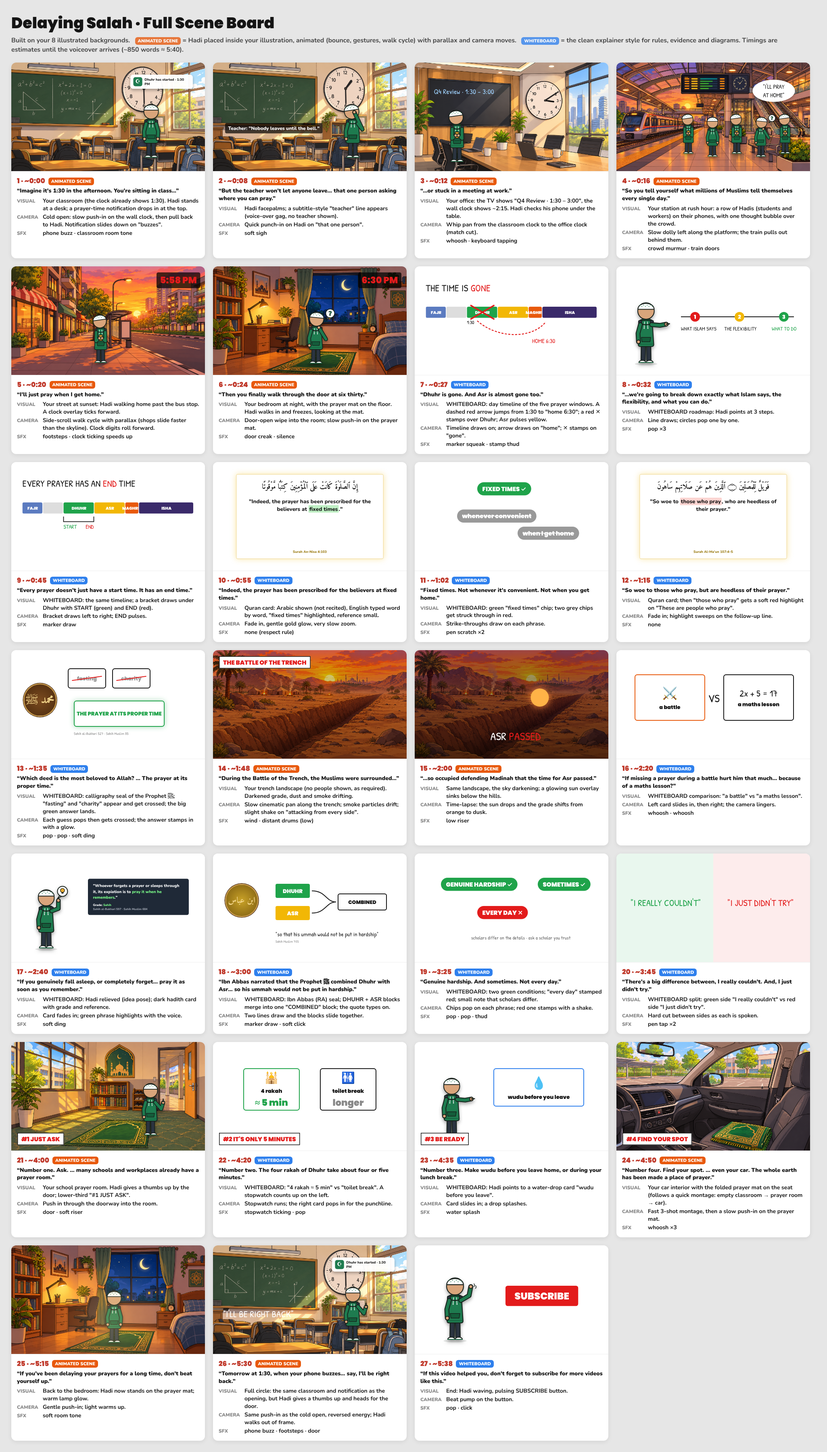
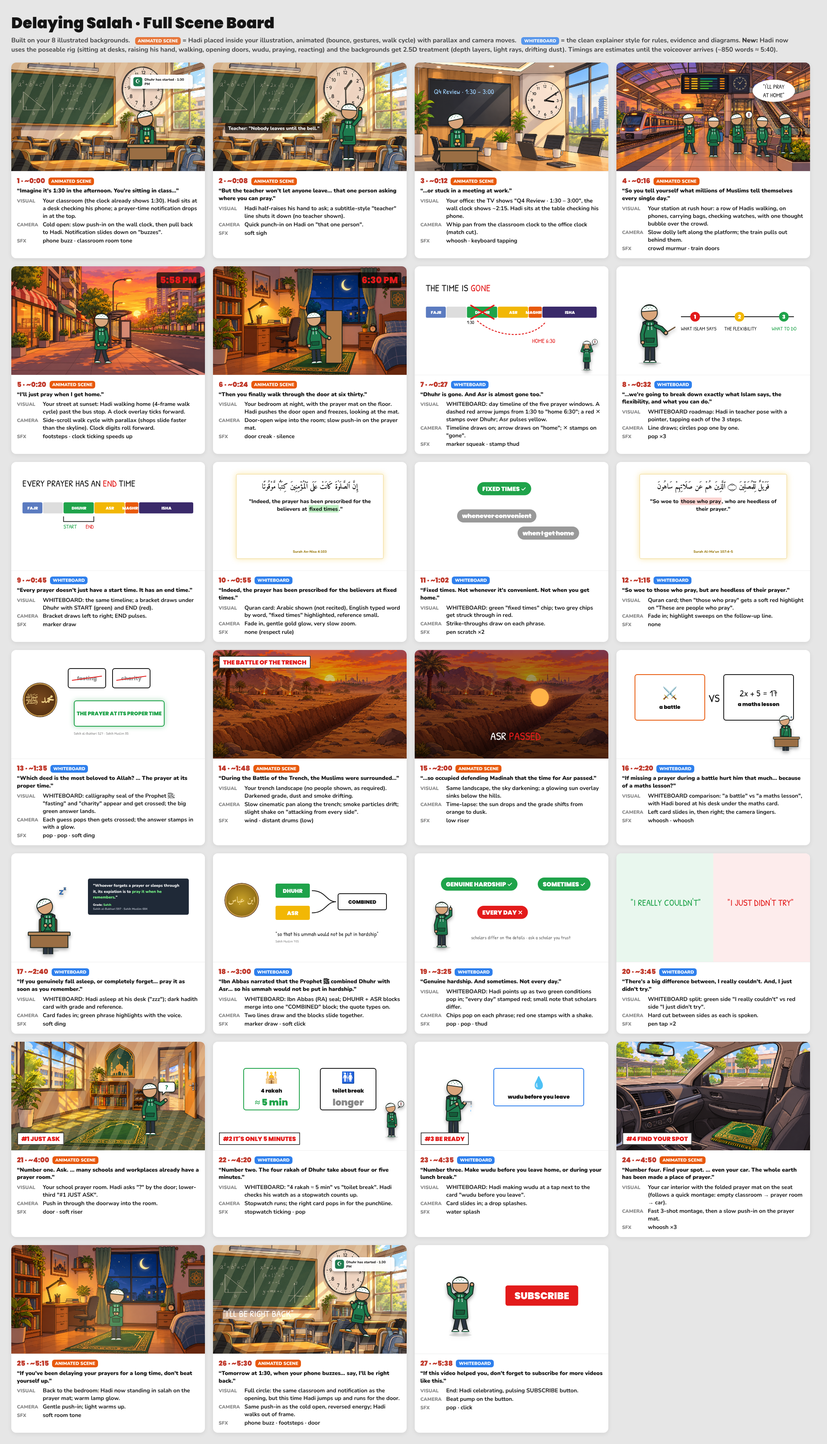
Salah board: rig poses, light effects, updated notes

diff --git a/storyboards/04-salah-full/index.html b/storyboards/04-salah-full/index.html
@@ -27,11 +27,14 @@ h1{font:900 38px Poppins;margin-bottom:4px}
 .box{position:absolute;border:8px solid #151515;border-radius:26px;background:#fff;display:flex;flex-direction:column;align-items:center;justify-content:center;gap:10px;font:900 52px Poppins;text-align:center}
 </style></head><body>
 <h1>Delaying Salah · Full Scene Board</h1>
-<div class="sub">Built on your 8 illustrated backgrounds. <span class="tag an">ANIMATED SCENE</span> = Hadi placed inside your illustration, animated (bounce, gestures, walk cycle) with parallax and camera moves. <span class="tag wb">WHITEBOARD</span> = the clean explainer style for rules, evidence and diagrams. Timings are estimates until the voiceover arrives (~850 words ≈ 5:40).</div>
+<div class="sub">Built on your 8 illustrated backgrounds. <span class="tag an">ANIMATED SCENE</span> = Hadi placed inside your illustration, animated (bounce, gestures, walk cycle) with parallax and camera moves. <span class="tag wb">WHITEBOARD</span> = the clean explainer style for rules, evidence and diagrams. <b>New:</b> Hadi now uses the poseable rig (sitting at desks, raising his hand, walking, opening doors, wudu, praying, reacting) and the backgrounds get 2.5D treatment (depth layers, light rays, drifting dust). Timings are estimates until the voiceover arrives (~850 words ≈ 5:40).</div>
 <div class="grid" id="grid"></div>
 <script>
 const bg=f=>`<img class="a" src="bg-${f}.png" style="left:0;top:0;width:1920px;height:1080px;object-fit:cover">`;
-const hadi=(p,x,y,h=640,extra='')=>`<img class="a" src="hadi-${p}.svg" style="left:${x}px;top:${y}px;height:${h}px;filter:drop-shadow(0 18px 18px rgba(0,0,0,.35));${extra}">`;
+const RIG=new Set(['walk1','walk2','walk3','walk4','run','walk-phone','check-watch','raise-hand','ask','sit-desk','sit-bored','sit-phone','sit-floor','pray-stand','pray-hands-up','dua','read-book','carry-bag','wudu','sleep','shrug','panic','sad','explain','point-up','stop','open-door','celebrate']);
+const rays=()=>`<div class="a" style="left:0;top:0;width:1920px;height:1080px;background:repeating-linear-gradient(115deg,rgba(255,236,170,.0) 0 90px,rgba(255,236,170,.16) 90px 150px);mix-blend-mode:screen"></div>`;
+const dust=()=>`<svg class="a" style="left:0;top:0" width="1920" height="1080">${[...Array(40)].map((_,i)=>`<circle cx="${(i*173)%1920}" cy="${(i*97)%1080}" r="${2+(i%4)}" fill="#FFE2B0" opacity=".5"/>`).join('')}</svg>`;
+const hadi=(p,x,y,h=640,extra='')=>`<img class="a" src="${RIG.has(p)?'':'hadi-'}${p}.svg" style="left:${x}px;top:${y}px;height:${h}px;filter:drop-shadow(0 18px 18px rgba(0,0,0,.35));${extra}">`;
 const words=(txt,x,y,size,upto,keys=[],w=1700,align='left',color='#151515')=>{const ws=txt.split(' ');upto=upto??ws.length;return `<div class="hand" style="left:${x}px;top:${y}px;font-size:${size}px;width:${w}px;white-space:normal;line-height:1.3;text-align:${align}">`+ws.map((t,i)=>`<span style="color:${i<upto?(keys.some(k=>t.toLowerCase().includes(k))?'#E31B1B':color):(i==upto?'#bbb':'transparent')}">${t}</span>`).join(' ')+'</div>';};
 const notif=(x,y,txt)=>`<div class="a" style="left:${x}px;top:${y}px;width:620px;background:rgba(255,255,255,.96);border-radius:28px;padding:24px 30px;box-shadow:0 14px 30px rgba(0,0,0,.3);display:flex;gap:22px;align-items:center"><div style="width:90px;height:90px;border-radius:20px;background:#1E7B4F;color:#fff;font:900 54px Amiri;display:flex;align-items:center;justify-content:center">☪</div><div style="font:800 34px Nunito">${txt}</div></div>`;
 const bubble=(x,y,w,h,txt,size=56)=>`<div class="a" style="left:${x}px;top:${y}px;width:${w}px;height:${h}px;border-radius:50%;background:#fff;box-shadow:0 10px 24px rgba(0,0,0,.25);display:flex;align-items:center;justify-content:center;text-align:center;font:400 ${size}px 'Patrick Hand';text-transform:uppercase">${txt}</div>`;
@@ -42,22 +45,22 @@ const timeline=(mode)=>{const segs=[['FAJR',0,12,'#5B7BC0'],['',12,24,'#ddd'],['
  if(mode=='late') s+=`<text x="${24*17}" y="230" font-family="Patrick Hand" font-size="48">1:30</text><path d="M${30*17},200 C${42*17},380 ${62*17},380 ${70*17},210" fill="none" stroke="#E31B1B" stroke-width="9" stroke-dasharray="20 14"/><text x="${62*17}" y="420" font-family="Patrick Hand" font-size="60" fill="#E31B1B">HOME 6:30</text><line x1="${26*17}" y1="45" x2="${40*17}" y2="185" stroke="#E31B1B" stroke-width="14"/><line x1="${40*17}" y1="45" x2="${26*17}" y2="185" stroke="#E31B1B" stroke-width="14"/>`;
  return s+'</svg>';};
 const F=[
- ['an','0:00',"Imagine it's 1:30 in the afternoon. You're sitting in class…",bg('classroom')+hadi('neutral',1180,360,620)+notif(1180,120,'Dhuhr has started · 1:30 PM'),
-  'Your classroom (the clock already shows 1:30). Hadi stands at a desk; a prayer-time notification drops in at the top.','Cold open: slow push-in on the wall clock, then pull back to Hadi. Notification slides down on "buzzes".','phone buzz · classroom room tone'],
- ['an','0:08',"But the teacher won't let anyone leave… that one person asking where you can pray.",bg('classroom')+hadi('facepalm',1180,360,620)+`<div class="a" style="left:120px;top:600px;background:rgba(0,0,0,.7);color:#fff;font:800 48px Nunito;padding:18px 30px;border-radius:16px">Teacher: "Nobody leaves until the bell."</div>`,
-  'Hadi facepalms; a subtitle-style "teacher" line appears (voice-over gag, no teacher shown).','Quick punch-in on Hadi on "that one person".','soft sigh'],
- ['an','0:12',"…or stuck in a meeting at work.",bg('office')+hadi('phone',220,420,600)+`<div class="hand" style="left:190px;top:240px;font-size:70px;color:#9fd3ff;text-transform:none">Q4 Review · 1:30 – 3:00</div>`,
-  'Your office: the TV shows "Q4 Review · 1:30 – 3:00", the wall clock shows ~2:15. Hadi checks his phone under the table.','Whip pan from the classroom clock to the office clock (match cut).','whoosh · keyboard tapping'],
- ['an','0:16',"So you tell yourself what millions of Muslims tell themselves every single day.",bg('station')+[0,1,2,3,4].map(i=>hadi(['phone','neutral','phone','think','phone'][i],560+i*240,470+(i%2)*30,460)).join('')+bubble(1350,170,420,220,'"I\'ll pray<br>at home"',60),
-  'Your station at rush hour: a row of Hadis (students and workers) on their phones, with one thought bubble over the crowd.','Slow dolly left along the platform; the train pulls out behind them.','crowd murmur · train doors'],
- ['an','0:20',"I'll just pray when I get home.",bg('street')+hadi('phone',700,430,560)+clockBig(1440,60,90,'5:58 PM'),
-  'Your street at sunset: Hadi walking home past the bus stop. A clock overlay ticks forward.','Side-scroll walk cycle with parallax (shops slide faster than the skyline). Clock digits roll forward.','footsteps · clock ticking speeds up'],
- ['an','0:24',"Then you finally walk through the door at six thirty.",bg('bedroom')+hadi('think',820,400,600)+clockBig(1440,60,90,'6:30 PM'),
-  'Your bedroom at night, with the prayer mat on the floor. Hadi walks in and freezes, looking at the mat.','Door-open wipe into the room; slow push-in on the prayer mat.','door creak · silence'],
- ['wb','0:27',"Dhuhr is gone. And Asr is almost gone too.",timeline('late')+words('the time is gone',110,150,96,null,['gone']),
+ ['an','0:00',"Imagine it's 1:30 in the afternoon. You're sitting in class…",bg('classroom')+rays()+hadi('sit-phone',1060,330,700)+notif(1180,120,'Dhuhr has started · 1:30 PM'),
+  'Your classroom (the clock already shows 1:30). Hadi sits at a desk checking his phone; a prayer-time notification drops in at the top.','Cold open: slow push-in on the wall clock, then pull back to Hadi. Notification slides down on "buzzes".','phone buzz · classroom room tone'],
+ ['an','0:08',"But the teacher won't let anyone leave… that one person asking where you can pray.",bg('classroom')+rays()+hadi('raise-hand',1060,330,700)+`<div class="a" style="left:120px;top:600px;background:rgba(0,0,0,.7);color:#fff;font:800 48px Nunito;padding:18px 30px;border-radius:16px">Teacher: "Nobody leaves until the bell."</div>`,
+  'Hadi half-raises his hand to ask; a subtitle-style "teacher" line shuts it down (no teacher shown).','Quick punch-in on Hadi on "that one person".','soft sigh'],
+ ['an','0:12',"…or stuck in a meeting at work.",bg('office')+hadi('sit-phone',140,360,700)+`<div class="hand" style="left:190px;top:240px;font-size:70px;color:#9fd3ff;text-transform:none">Q4 Review · 1:30 – 3:00</div>`,
+  'Your office: the TV shows "Q4 Review · 1:30 – 3:00", the wall clock shows ~2:15. Hadi sits at the table checking his phone.','Whip pan from the classroom clock to the office clock (match cut).','whoosh · keyboard tapping'],
+ ['an','0:16',"So you tell yourself what millions of Muslims tell themselves every single day.",bg('station')+[0,1,2,3,4].map(i=>hadi(['walk-phone','carry-bag','check-watch','walk1','walk-phone'][i],520+i*240,450+(i%2)*30,500)).join('')+bubble(1350,170,420,220,'"I\'ll pray<br>at home"',60),
+  'Your station at rush hour: a row of Hadis walking, on phones, carrying bags, checking watches, with one thought bubble over the crowd.','Slow dolly left along the platform; the train pulls out behind them.','crowd murmur · train doors'],
+ ['an','0:20',"I'll just pray when I get home.",bg('street')+hadi('walk1',640,400,620)+clockBig(1440,60,90,'5:58 PM'),
+  'Your street at sunset: Hadi walking home (4-frame walk cycle) past the bus stop. A clock overlay ticks forward.','Side-scroll walk cycle with parallax (shops slide faster than the skyline). Clock digits roll forward.','footsteps · clock ticking speeds up'],
+ ['an','0:24',"Then you finally walk through the door at six thirty.",bg('bedroom')+hadi('open-door',760,380,640)+clockBig(1440,60,90,'6:30 PM'),
+  'Your bedroom at night, with the prayer mat on the floor. Hadi pushes the door open and freezes, looking at the mat.','Door-open wipe into the room; slow push-in on the prayer mat.','door creak · silence'],
+ ['wb','0:27',"Dhuhr is gone. And Asr is almost gone too.",timeline('late')+words('the time is gone',110,150,96,null,['gone'])+hadi('panic',1560,700,360),
   'WHITEBOARD: day timeline of the five prayer windows. A dashed red arrow jumps from 1:30 to "home 6:30"; a red ✕ stamps over Dhuhr; Asr pulses yellow.','Timeline draws on; arrow draws on "home"; ✕ stamps on "gone".','marker squeak · stamp thud'],
- ['wb','0:32',"…we're going to break down exactly what Islam says, the flexibility, and what you can do.",hadi('point',60,300,700)+`<svg class="a" style="left:0;top:0" width="1920" height="1080"><line x1="640" y1="500" x2="1760" y2="500" stroke="#151515" stroke-width="8"/>${[0,1,2].map(i=>`<circle cx="${780+i*440}" cy="500" r="48" fill="${['#E31B1B','#F2B705','#1FA34A'][i]}"/><text x="${780+i*440}" y="520" text-anchor="middle" font-family="Poppins" font-weight="900" font-size="54" fill="#fff">${i+1}</text>`).join('')}</svg><div class="hand" style="left:640px;top:580px;font-size:52px">what islam says</div><div class="hand" style="left:1070px;top:580px;font-size:52px">the flexibility</div><div class="hand" style="left:1540px;top:580px;font-size:52px;color:#1FA34A">what to do</div>`,
-  'WHITEBOARD roadmap: Hadi points at 3 steps.','Line draws; circles pop one by one.','pop ×3'],
+ ['wb','0:32',"…we're going to break down exactly what Islam says, the flexibility, and what you can do.",hadi('explain',40,300,720)+`<svg class="a" style="left:0;top:0" width="1920" height="1080"><line x1="640" y1="500" x2="1760" y2="500" stroke="#151515" stroke-width="8"/>${[0,1,2].map(i=>`<circle cx="${780+i*440}" cy="500" r="48" fill="${['#E31B1B','#F2B705','#1FA34A'][i]}"/><text x="${780+i*440}" y="520" text-anchor="middle" font-family="Poppins" font-weight="900" font-size="54" fill="#fff">${i+1}</text>`).join('')}</svg><div class="hand" style="left:640px;top:580px;font-size:52px">what islam says</div><div class="hand" style="left:1070px;top:580px;font-size:52px">the flexibility</div><div class="hand" style="left:1540px;top:580px;font-size:52px;color:#1FA34A">what to do</div>`,
+  'WHITEBOARD roadmap: Hadi in teacher pose with a pointer, tapping each of the 3 steps.','Line draws; circles pop one by one.','pop ×3'],
  ['wb','0:45',"Every prayer doesn't just have a start time. It has an end time.",timeline('window')+words('every prayer has an end time',110,150,92,null,['end']),
   'WHITEBOARD: the same timeline; a bracket draws under Dhuhr with START (green) and END (red).','Bracket draws left to right; END pulses.','marker draw'],
  ['wb','0:55',"Indeed, the prayer has been prescribed for the believers at fixed times.",`<div class="card"><div style="font:700 72px Amiri;direction:rtl;line-height:1.8">إِنَّ ٱلصَّلَوٰةَ كَانَتْ عَلَى ٱلْمُؤْمِنِينَ كِتَٰبًا مَّوْقُوتًا</div><div style="font:800 54px Nunito;margin-top:40px">"Indeed, the prayer has been prescribed for the believers at <span style="background:rgba(46,204,64,.3);padding:0 8px;border-radius:6px">fixed times</span>."</div><div style="position:absolute;bottom:46px;left:0;right:0;font:800 34px Nunito;color:#9A7A10">Surah An-Nisa 4:103</div></div>`,
@@ -68,34 +71,34 @@ const F=[
   'Quran card; then "those who pray" gets a soft red highlight on "These are people who pray".','Fade in; highlight sweeps on the follow-up line.','none'],
  ['wb','1:35',"Which deed is the most beloved to Allah? … The prayer at its proper time.",`<div class="seal" style="left:120px;top:330px;width:330px;height:330px;font-size:110px">محمد ﷺ</div><div class="box" style="left:560px;top:180px;width:380px;height:200px;color:#999">fasting<span style="position:absolute;width:300px;height:8px;background:#E31B1B;transform:rotate(-8deg)"></span></div><div class="box" style="left:1000px;top:180px;width:380px;height:200px;color:#999">charity<span style="position:absolute;width:300px;height:8px;background:#E31B1B;transform:rotate(-8deg)"></span></div><div class="box" style="left:620px;top:500px;width:900px;height:260px;border-color:#1FA34A;color:#1FA34A;box-shadow:0 0 50px rgba(31,163,74,.4)">THE PRAYER AT ITS PROPER TIME</div><div class="hand" style="left:620px;top:800px;font-size:36px;color:#888;text-transform:none">Sahih al-Bukhari 527 · Sahih Muslim 85</div>`,
   'WHITEBOARD: calligraphy seal of the Prophet ﷺ; "fasting" and "charity" appear and get crossed; the big green answer lands.','Each guess pops then gets crossed; the answer stamps in with a glow.','pop · pop · soft ding'],
- ['an','1:48',"During the Battle of the Trench, the Muslims were surrounded…",bg('trench')+`<div class="a" style="left:0;top:0;width:1920px;height:1080px;background:linear-gradient(180deg,rgba(80,0,0,.15),rgba(0,0,0,.45))"></div><div class="lower" style="top:60px">THE BATTLE OF THE TRENCH</div>`,
+ ['an','1:48',"During the Battle of the Trench, the Muslims were surrounded…",bg('trench')+dust()+`<div class="a" style="left:0;top:0;width:1920px;height:1080px;background:linear-gradient(180deg,rgba(80,0,0,.15),rgba(0,0,0,.45))"></div><div class="lower" style="top:60px">THE BATTLE OF THE TRENCH</div>`,
   'Your trench landscape (no people shown, as required). Darkened grade, dust and smoke drifting.','Slow cinematic pan along the trench; smoke particles drift; slight shake on "attacking from every side".','wind · distant drums (low)'],
  ['an','2:00',"…so occupied defending Madinah that the time for Asr passed.",bg('trench')+`<div class="a" style="left:0;top:0;width:1920px;height:1080px;background:linear-gradient(180deg,rgba(30,0,40,.35),rgba(0,0,0,.65))"></div><div class="a" style="left:1150px;top:380px;width:180px;height:180px;border-radius:50%;background:#FFB347;box-shadow:0 0 80px #FF8A3D"></div>`+words('asr passed',700,780,110,null,['passed'],600,'center','#fff'),
   'Same landscape, the sky darkening; a glowing sun overlay sinks below the hills.','Time-lapse: the sun drops and the grade shifts from orange to dusk.','low riser'],
- ['wb','2:20',"If missing a prayer during a battle hurt him that much… because of a maths lesson?",`<div class="box" style="left:180px;top:240px;width:700px;height:460px;border-color:#E8590C"><div style="font-size:120px">⚔</div>a battle</div><div class="hand" style="left:910px;top:400px;font-size:110px">vs</div><div class="box" style="left:1060px;top:240px;width:700px;height:460px"><div style="font:400 90px 'Patrick Hand'">2x + 5 = 17</div>a maths lesson</div>`,
-  'WHITEBOARD comparison: "a battle" vs "a maths lesson".','Left card slides in, then right; the camera lingers.','whoosh · whoosh'],
- ['wb','2:40',"If you genuinely fall asleep, or completely forget… pray it as soon as you remember.",hadi('idea',120,300,680)+`<div class="hcard" style="left:760px;top:250px;width:1000px"><div style="font:800 40px Nunito;line-height:1.45">"Whoever forgets a prayer or sleeps through it, its expiation is to <span style="color:#7CFF8A">pray it when he remembers</span>."</div><div style="margin-top:26px;font:800 30px Nunito">Grade: <span style="color:#7CFF8A">Sahih</span></div><div style="font:800 28px Nunito;color:#9CA3AF">Sahih al-Bukhari 597 · Sahih Muslim 684</div></div>`,
-  'WHITEBOARD: Hadi relieved (idea pose); dark hadith card with grade and reference.','Card fades in; green phrase highlights with the voice.','soft ding'],
+ ['wb','2:20',"If missing a prayer during a battle hurt him that much… because of a maths lesson?",`<div class="box" style="left:180px;top:240px;width:700px;height:460px;border-color:#E8590C"><div style="font-size:120px">⚔</div>a battle</div><div class="hand" style="left:910px;top:400px;font-size:110px">vs</div><div class="box" style="left:1060px;top:240px;width:700px;height:460px"><div style="font:400 90px 'Patrick Hand'">2x + 5 = 17</div>a maths lesson</div>`+hadi('sit-bored',1500,560,440),
+  'WHITEBOARD comparison: "a battle" vs "a maths lesson", with Hadi bored at his desk under the maths card.','Left card slides in, then right; the camera lingers.','whoosh · whoosh'],
+ ['wb','2:40',"If you genuinely fall asleep, or completely forget… pray it as soon as you remember.",hadi('sleep',80,300,700)+`<div class="hcard" style="left:760px;top:250px;width:1000px"><div style="font:800 40px Nunito;line-height:1.45">"Whoever forgets a prayer or sleeps through it, its expiation is to <span style="color:#7CFF8A">pray it when he remembers</span>."</div><div style="margin-top:26px;font:800 30px Nunito">Grade: <span style="color:#7CFF8A">Sahih</span></div><div style="font:800 28px Nunito;color:#9CA3AF">Sahih al-Bukhari 597 · Sahih Muslim 684</div></div>`,
+  'WHITEBOARD: Hadi asleep at his desk ("zzz"); dark hadith card with grade and reference.','Card fades in; green phrase highlights with the voice.','soft ding'],
  ['wb','3:00',"Ibn Abbas narrated that the Prophet ﷺ combined Dhuhr with Asr… so his ummah would not be put in hardship.",`<div class="seal" style="left:120px;top:300px;width:330px;height:330px;font-size:84px;background:radial-gradient(circle,#C9A227,#7A5A10)">ابن عباس</div><svg class="a" style="left:0;top:0" width="1920" height="1080"><rect x="620" y="300" width="340" height="140" rx="16" fill="#1FA34A"/><text x="790" y="390" text-anchor="middle" font-family="Poppins" font-weight="900" font-size="54" fill="#fff">DHUHR</text><rect x="620" y="520" width="340" height="140" rx="16" fill="#F2B705"/><text x="790" y="610" text-anchor="middle" font-family="Poppins" font-weight="900" font-size="54" fill="#fff">ASR</text><path d="M980,370 C1120,370 1120,480 1220,480 M980,590 C1120,590 1120,480 1220,480" fill="none" stroke="#151515" stroke-width="8"/><rect x="1240" y="400" width="480" height="160" rx="18" fill="#fff" stroke="#151515" stroke-width="8"/><text x="1480" y="500" text-anchor="middle" font-family="Poppins" font-weight="900" font-size="50" fill="#151515">COMBINED</text></svg><div class="hand" style="left:620px;top:760px;font-size:56px;text-transform:none">"so that his ummah would not be put in hardship"</div><div class="hand" style="left:620px;top:850px;font-size:34px;color:#888;text-transform:none">Sahih Muslim 705</div>`,
   'WHITEBOARD: Ibn Abbas (RA) seal; DHUHR + ASR blocks merge into one "COMBINED" block; the quote types on.','Two lines draw and the blocks slide together.','marker draw · soft click'],
- ['wb','3:25',"Genuine hardship. And sometimes. Not every day.",`<div class="pill" style="left:260px;top:240px;background:#1FA34A">GENUINE HARDSHIP ✓</div><div class="pill" style="left:1220px;top:240px;background:#1FA34A">SOMETIMES ✓</div><div class="pill" style="left:620px;top:520px;background:#E31B1B">EVERY DAY ✕</div><div class="hand" style="left:560px;top:800px;font-size:48px;color:#666;text-transform:none">scholars differ on the details · ask a scholar you trust</div>`,
-  'WHITEBOARD: two green conditions; "every day" stamped red; small note that scholars differ.','Chips pop on each phrase; red one stamps with a shake.','pop · pop · thud'],
+ ['wb','3:25',"Genuine hardship. And sometimes. Not every day.",`<div class="pill" style="left:260px;top:240px;background:#1FA34A">GENUINE HARDSHIP ✓</div><div class="pill" style="left:1220px;top:240px;background:#1FA34A">SOMETIMES ✓</div><div class="pill" style="left:620px;top:520px;background:#E31B1B">EVERY DAY ✕</div>`+hadi('point-up',40,420,560)+`<div class="hand" style="left:560px;top:800px;font-size:48px;color:#666;text-transform:none">scholars differ on the details · ask a scholar you trust</div>`,
+  'WHITEBOARD: Hadi points up as two green conditions pop in; "every day" stamped red; small note that scholars differ.','Chips pop on each phrase; red one stamps with a shake.','pop · pop · thud'],
  ['wb','3:45',"There's a big difference between, I really couldn't. And, I just didn't try.",`<div class="a" style="left:0;top:0;width:960px;height:1080px;background:#E9F7EE"></div><div class="a" style="left:960px;top:0;width:960px;height:1080px;background:#FDECEC"></div>`+words('"i really couldn\'t"',140,430,90,null,[],700,'center','#1FA34A')+words('"i just didn\'t try"',1080,430,90,null,['didn\'t'],700,'center','#E31B1B'),
   'WHITEBOARD split: green side "I really couldn\'t" vs red side "I just didn\'t try".','Hard cut between sides as each is spoken.','pen tap ×2'],
- ['an','4:00',"Number one. Ask. … many schools and workplaces already have a prayer room.",bg('prayerroom')+hadi('thumbsup',1180,360,600)+`<div class="lower">#1 JUST ASK</div>`,
-  'Your school prayer room. Hadi gives a thumbs up by the door; lower-third "#1 JUST ASK".','Push in through the doorway into the room.','door · soft riser'],
- ['wb','4:20',"Number two. The four rakah of Dhuhr take about four or five minutes.",`<div class="box" style="left:300px;top:260px;width:560px;height:420px;border-color:#1FA34A"><div style="font-size:110px">🕌</div>4 rakah<div style="font:900 90px Poppins;color:#1FA34A">≈ 5 min</div></div><div class="box" style="left:1060px;top:260px;width:560px;height:420px"><div style="font-size:110px">🚻</div>toilet break<div style="font:900 90px Poppins;color:#888">longer</div></div><div class="lower">#2 IT'S ONLY 5 MINUTES</div>`,
-  'WHITEBOARD: "4 rakah ≈ 5 min" vs "toilet break". A stopwatch counts up on the left.','Stopwatch runs; the right card pops in for the punchline.','stopwatch ticking · pop'],
- ['wb','4:35',"Number three. Make wudu before you leave home, or during your lunch break.",hadi('point',140,300,680)+`<div class="box" style="left:780px;top:260px;width:900px;height:380px;border-color:#2F80ED"><div style="font-size:120px">💧</div>wudu before you leave</div><div class="lower">#3 BE READY</div>`,
-  'WHITEBOARD: Hadi points to a water-drop card "wudu before you leave".','Card slides in; a drop splashes.','water splash'],
+ ['an','4:00',"Number one. Ask. … many schools and workplaces already have a prayer room.",bg('prayerroom')+rays()+hadi('ask',1120,340,640)+`<div class="lower">#1 JUST ASK</div>`,
+  'Your school prayer room. Hadi asks "?" by the door; lower-third "#1 JUST ASK".','Push in through the doorway into the room.','door · soft riser'],
+ ['wb','4:20',"Number two. The four rakah of Dhuhr take about four or five minutes.",`<div class="box" style="left:300px;top:260px;width:560px;height:420px;border-color:#1FA34A"><div style="font-size:110px">🕌</div>4 rakah<div style="font:900 90px Poppins;color:#1FA34A">≈ 5 min</div></div><div class="box" style="left:1060px;top:260px;width:560px;height:420px"><div style="font-size:110px">🚻</div>toilet break<div style="font:900 90px Poppins;color:#888">longer</div></div><div class="lower">#2 IT'S ONLY 5 MINUTES</div>`+hadi('check-watch',1600,560,420),
+  'WHITEBOARD: "4 rakah ≈ 5 min" vs "toilet break". Hadi checks his watch as a stopwatch counts up.','Stopwatch runs; the right card pops in for the punchline.','stopwatch ticking · pop'],
+ ['wb','4:35',"Number three. Make wudu before you leave home, or during your lunch break.",hadi('wudu',100,300,700)+`<div class="box" style="left:780px;top:260px;width:900px;height:380px;border-color:#2F80ED"><div style="font-size:120px">💧</div>wudu before you leave</div><div class="lower">#3 BE READY</div>`,
+  'WHITEBOARD: Hadi making wudu at a tap next to the card "wudu before you leave".','Card slides in; a drop splashes.','water splash'],
  ['an','4:50',"Number four. Find your spot. … even your car. The whole earth has been made a place of prayer.",bg('car')+`<div class="lower">#4 FIND YOUR SPOT</div>`,
   'Your car interior with the folded prayer mat on the seat (follows a quick montage: empty classroom → prayer room → car).','Fast 3-shot montage, then a slow push-in on the prayer mat.','whoosh ×3'],
- ['an','5:15',"If you've been delaying your prayers for a long time, don't beat yourself up.",bg('bedroom')+hadi('neutral',820,400,600)+`<div class="a" style="left:0;top:0;width:1920px;height:1080px;background:radial-gradient(circle at 50% 75%,rgba(255,220,140,.25),rgba(0,0,0,0) 60%)"></div>`,
-  'Back to the bedroom: Hadi now stands on the prayer mat; warm lamp glow.','Gentle push-in; light warms up.','soft room tone'],
- ['an','5:30',"Tomorrow at 1:30, when your phone buzzes… say, I'll be right back.",bg('classroom')+hadi('thumbsup',1180,360,620)+notif(1180,120,'Dhuhr has started · 1:30 PM')+`<div class="a" style="left:100px;top:620px;background:rgba(0,0,0,.65);border-radius:18px;padding:14px 30px">`+words('"i\'ll be right back"',0,0,90,null,[],900,'left','#fff').replace('position:absolute','position:relative')+`</div>`,
-  'Full circle: the same classroom and notification as the opening, but Hadi gives a thumbs up and heads for the door.','Same push-in as the cold open, reversed energy; Hadi walks out of frame.','phone buzz · footsteps · door'],
- ['wb','5:38',"If this video helped you, don't forget to subscribe for more videos like this.",hadi('wave',160,260,720)+`<div class="a" style="left:900px;top:400px;background:#E31B1B;color:#fff;font:900 96px Poppins;border-radius:22px;padding:28px 90px">SUBSCRIBE</div>`,
-  'End: Hadi waving, pulsing SUBSCRIBE button.','Beat pump on the button.','pop · click'],
+ ['an','5:15',"If you've been delaying your prayers for a long time, don't beat yourself up.",bg('bedroom')+hadi('pray-stand',780,360,640)+`<div class="a" style="left:0;top:0;width:1920px;height:1080px;background:radial-gradient(circle at 50% 75%,rgba(255,220,140,.25),rgba(0,0,0,0) 60%)"></div>`,
+  'Back to the bedroom: Hadi now standing in salah on the prayer mat; warm lamp glow.','Gentle push-in; light warms up.','soft room tone'],
+ ['an','5:30',"Tomorrow at 1:30, when your phone buzzes… say, I'll be right back.",bg('classroom')+rays()+hadi('run',1180,360,620)+notif(1180,120,'Dhuhr has started · 1:30 PM')+`<div class="a" style="left:100px;top:620px;background:rgba(0,0,0,.65);border-radius:18px;padding:14px 30px">`+words('"i\'ll be right back"',0,0,90,null,[],900,'left','#fff').replace('position:absolute','position:relative')+`</div>`,
+  'Full circle: the same classroom and notification as the opening, but this time Hadi jumps up and runs for the door.','Same push-in as the cold open, reversed energy; Hadi walks out of frame.','phone buzz · footsteps · door'],
+ ['wb','5:38',"If this video helped you, don't forget to subscribe for more videos like this.",hadi('celebrate',160,260,720)+`<div class="a" style="left:900px;top:400px;background:#E31B1B;color:#fff;font:900 96px Poppins;border-radius:22px;padding:28px 90px">SUBSCRIBE</div>`,
+  'End: Hadi celebrating, pulsing SUBSCRIBE button.','Beat pump on the button.','pop · click'],
 ];
 document.getElementById('grid').innerHTML=F.map(([tag,t,vo,s,vis,cam,sfx],i)=>`<div class="panel"><div class="frame"><div class="scene">${s}</div></div><div class="meta"><div class="t">${i+1} · ~${t}<span class="tag ${tag}">${tag=='an'?'ANIMATED SCENE':'WHITEBOARD'}</span></div><div class="vo">“${vo}”</div><div class="row"><div class="k">Visual</div><div>${vis}</div></div><div class="row"><div class="k">Camera</div><div>${cam}</div></div><div class="row"><div class="k">SFX</div><div>${sfx}</div></div></div></div>`).join('');
 </script></body></html>
